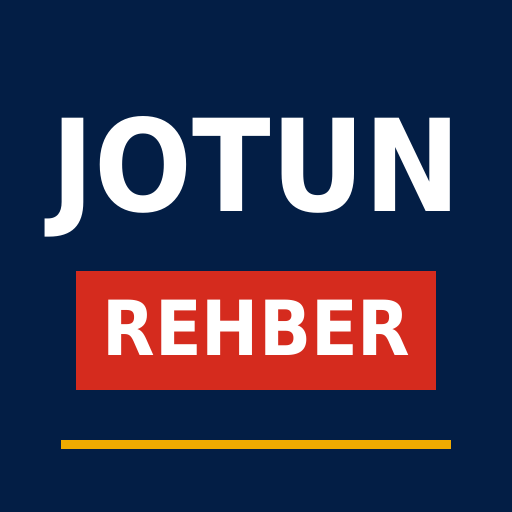
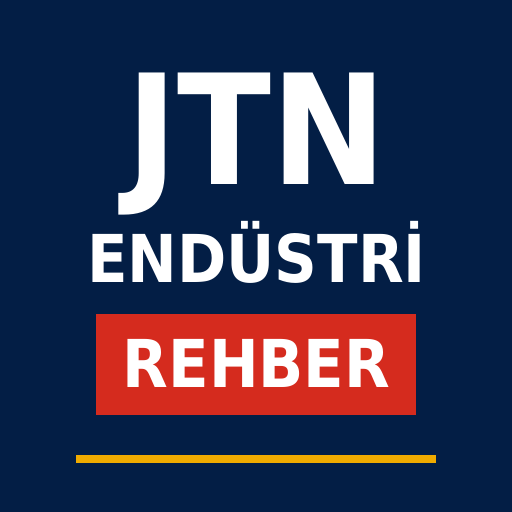
Ad: JTN Endüstri Rehber; yeni ikon, paket kimliği com.jtn.endustrirehber
Claude-Session: https://claude.ai/code/session_01BJcMCUTwxuE85oxcF1959v

diff --git a/index.html b/index.html
@@ -5,7 +5,7 @@
 <link rel="apple-touch-icon" href="apple-touch-icon.png">
 <meta name="apple-mobile-web-app-capable" content="yes">
 <meta name="mobile-web-app-capable" content="yes">
-<meta name="apple-mobile-web-app-title" content="Jotun Rehber">
+<meta name="apple-mobile-web-app-title" content="JTN Rehber">
 <meta name="apple-mobile-web-app-status-bar-style" content="black-translucent">
 <style>
 #pwa-bar{position:fixed;left:12px;right:12px;bottom:calc(12px + env(safe-area-inset-bottom,0px));z-index:9999;background:#031e45;color:#fff;border-radius:10px;box-shadow:0 6px 24px rgba(0,0,0,.3);padding:12px 14px;display:flex;gap:10px;align-items:center;font:14px/1.4 system-ui,-apple-system,"Segoe UI",sans-serif;max-width:520px;margin:0 auto}
@@ -15,7 +15,7 @@
 #pwa-in{background:#f0ab00;color:#031e45}#pwa-x{background:transparent;color:#fff;font-size:20px!important;padding:4px 8px!important}
 </style>
 </head><body style="margin:0">
-<title>Jotun Rehber</title>
+<title>JTN Endüstri Rehber</title>
 <meta name="claude:viewport-fit-sides" content="cover">
 <link rel="stylesheet" href="https://fonts.googleapis.com/css2?family=Barlow+Condensed:wght@600;700&family=IBM+Plex+Sans:wght@400;500;600&family=IBM+Plex+Mono:wght@400;500&display=swap">
 <style>
@@ -247,7 +247,7 @@ label.btn{display:inline-block}
 
 <div class="wrap">
 <header>
-  <h1>Jotun <span>Rehber</span></h1>
+  <h1>JTN ENDÜSTRİ <span>REHBER</span></h1>
 </header>
 <nav class="tabs" aria-label="Bölümler">
   <a href="#sistem" id="t-sistem" class="tab" aria-current="page">Sistem &amp; Teklif</a>
@@ -1387,7 +1387,7 @@ renderProducts(); render();
 if(LAST.list.length) quoteFromSystem(LAST.list[0],LAST.s,true); else {renderLines();renderDoc();}
 })();
 </script>
-<div id="pwa-bar" hidden><img src="icon-192.png" alt=""><div class="t"><b>Jotun Rehber'i yükle</b><span id="pwa-msg">Telefonunda uygulama olarak açılsın.</span></div><button type="button" id="pwa-in">Yükle</button><button type="button" id="pwa-x" aria-label="Kapat">×</button></div>
+<div id="pwa-bar" hidden><img src="icon-192.png" alt=""><div class="t"><b>JTN Endüstri Rehber'i yükle</b><span id="pwa-msg">Telefonunda uygulama olarak açılsın.</span></div><button type="button" id="pwa-in">Yükle</button><button type="button" id="pwa-x" aria-label="Kapat">×</button></div>
 <script>
 (function(){
   if("serviceWorker" in navigator) addEventListener("load",function(){navigator.serviceWorker.register("sw.js").catch(function(){});});

diff --git a/privacy.html b/privacy.html
@@ -1,8 +1,8 @@
-<!doctype html><html lang="tr"><head><meta charset="utf-8"><meta name="viewport" content="width=device-width,initial-scale=1"><title>Jotun Rehber – Gizlilik Politikası</title>
+<!doctype html><html lang="tr"><head><meta charset="utf-8"><meta name="viewport" content="width=device-width,initial-scale=1"><title>JTN Endüstri Rehber – Gizlilik Politikası</title>
 <style>body{font:16px/1.6 system-ui,-apple-system,"Segoe UI",sans-serif;color:#031e45;background:#f1f3f7;margin:0;padding:24px 16px}main{max-width:720px;margin:0 auto;background:#fff;border-radius:8px;padding:24px}h1{font-size:24px;margin-top:0}h2{font-size:18px;margin-top:24px}</style></head>
 <body><main>
-<h1>Jotun Rehber – Gizlilik Politikası</h1>
-<p>Jotun Rehber; boya sistemi önerisi, boya sarfiyatı hesabı, teklif hazırlama ve ürün bilgisi için kullanılan bir uygulamadır.</p>
+<h1>JTN Endüstri Rehber – Gizlilik Politikası</h1>
+<p>JTN Endüstri Rehber; boya sistemi önerisi, boya sarfiyatı hesabı, teklif hazırlama ve ürün bilgisi için kullanılan bir uygulamadır.</p>
 <h2>Toplanan veriler</h2>
 <p>Uygulama hesap açtırmaz, kişisel veri toplamaz, reklam ve takip aracı kullanmaz. Girdiğiniz bayi adı, müşteri adı, fiyat ve yoğunluk gibi bilgiler yalnızca cihazınızda saklanır; sunuculara gönderilmez.</p>
 <h2>Kamera ve fotoğraflar</h2>

diff --git a/ios-app/app.html b/ios-app/app.html
@@ -1,4 +1,4 @@
-<title>Jotun Rehber</title>
+<title>JTN Endüstri Rehber</title>
 <meta name="claude:viewport-fit-sides" content="cover">
 <link rel="stylesheet" href="https://fonts.googleapis.com/css2?family=Barlow+Condensed:wght@600;700&family=IBM+Plex+Sans:wght@400;500;600&family=IBM+Plex+Mono:wght@400;500&display=swap">
 <style>
@@ -230,7 +230,7 @@ label.btn{display:inline-block}
 
 <div class="wrap">
 <header>
-  <h1>Jotun <span>Rehber</span></h1>
+  <h1>JTN ENDÜSTRİ <span>REHBER</span></h1>
 </header>
 <nav class="tabs" aria-label="Bölümler">
   <a href="#sistem" id="t-sistem" class="tab" aria-current="page">Sistem &amp; Teklif</a>

diff --git a/sw.js b/sw.js
@@ -1,5 +1,5 @@
-/* Jotun Rehber – çevrimdışı çalışma ve hızlı açılış */
-const CACHE = "jotun-rehber-v1";
+/* JTN Endüstri Rehber – çevrimdışı çalışma ve hızlı açılış */
+const CACHE = "jtn-rehber-v2";
 const CORE = ["./", "./index.html", "./manifest.webmanifest", "./icon-192.png", "./icon-512.png", "./apple-touch-icon.png",
   "https://cdnjs.cloudflare.com/ajax/libs/html2canvas/1.4.1/html2canvas.min.js",
   "https://cdnjs.cloudflare.com/ajax/libs/jspdf/2.5.1/jspdf.umd.min.js"];
